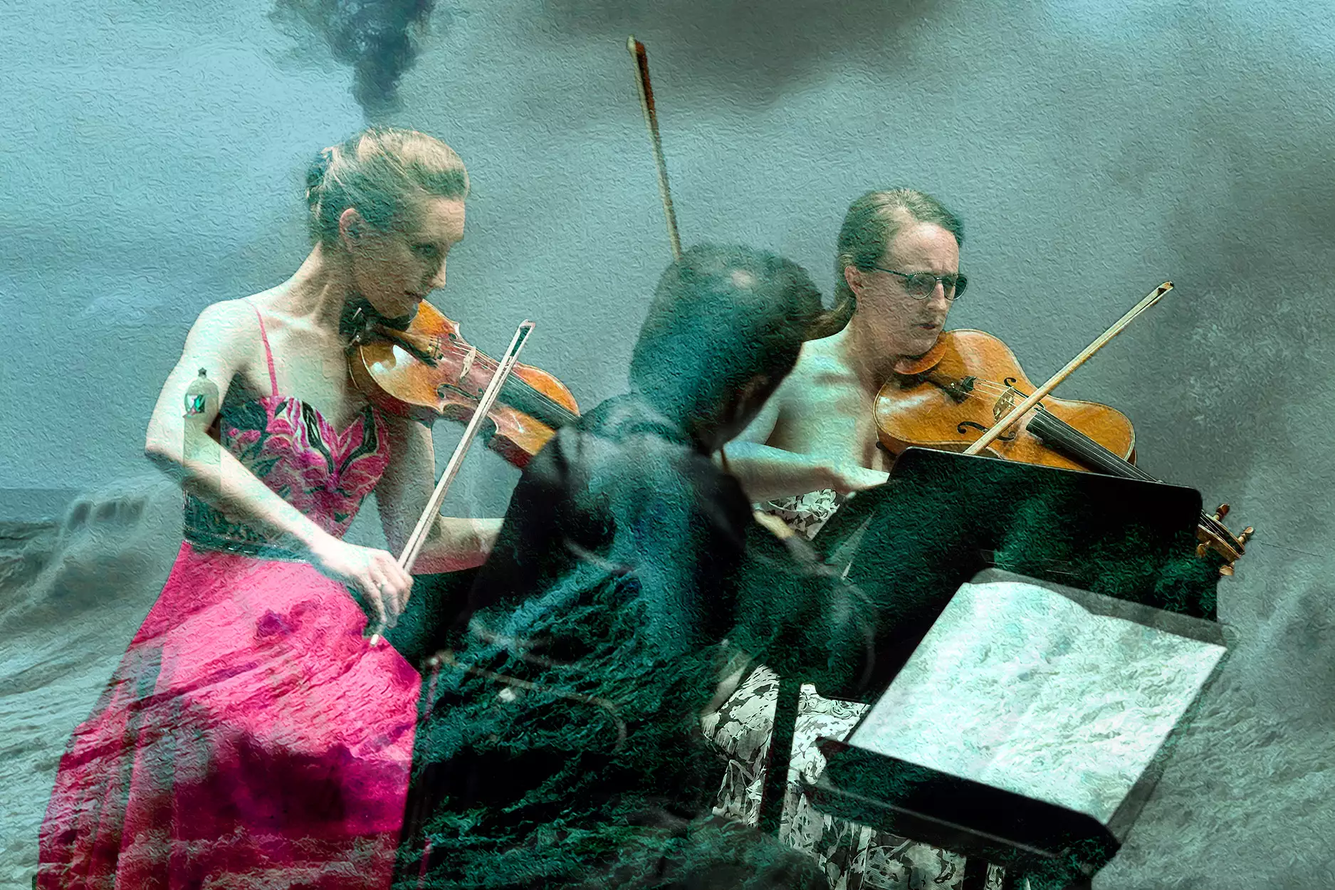
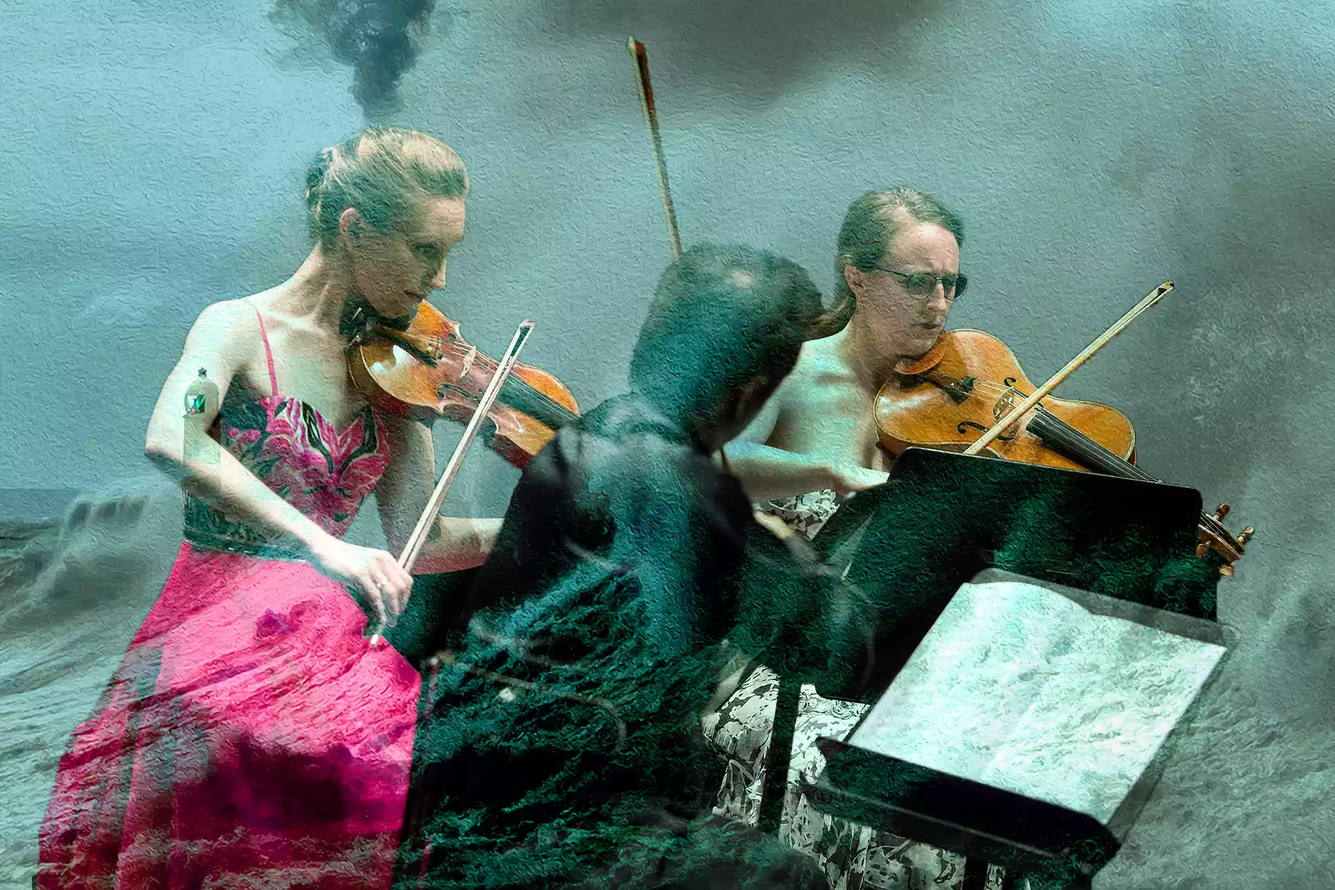
Reduce all image sizes

Changed region(s): [[0.7424, 0.4368, 0.7733, 0.4992]]

diff --git a/pages/info.js b/pages/info.js
@@ -47,6 +47,9 @@ export default function Info() {
               layout="fill"
               objectFit="cover"
               objectPosition="top"
+              priority
+              blurDataURL="/static/data-crescendo.webp"
+              placeholder="blur"
             />
           </div>
           <div
@@ -107,6 +110,8 @@ export default function Info() {
                         layout="responsive"
                         objectFit="cover"
                         objectPosition="bottom"
+                        blurDataURL="/static/data-crescendo.webp"
+                        placeholder="blur"
                       />
                     </div>
                     <div className="absolute inset-0 overflow-hidden rounded-lg bg-blueCrescendo mix-blend-multiply" />

diff --git a/pages/talentos.js b/pages/talentos.js
@@ -50,6 +50,9 @@ const Talentos = () => {
               layout="responsive"
               objectFit="cover"
               objectPosition="center"
+              priority
+              blurDataURL="/static/crescendo-img-18-blur.webp"
+              placeholder="blur"
             />
           </div>
           <div className="absolute flex flex-col items-center justify-start w-40 py-8 mx-4 md:w-48 lg:w-72 md:flex-row sm:py-10 md:py-10 xl:py-20 md:mx-8 lg:mx-20 xl:mx-20">

diff --git a/components/talents/info.js b/components/talents/info.js
@@ -31,7 +31,7 @@ export default function InfoTalentos() {
             <div className="relative pt-64 pb-10 overflow-hidden shadow-none rounded-2xl">
               <div className="absolute inset-0 object-cover w-full h-full">
                 <Image
-                  src="/static/aig.jpg"
+                  src="/static/aig.webp"
                   alt="Teatro Echegaray"
                   layout="fill"
                   objectFit="cover"

diff --git a/pages/artistas/index.js b/pages/artistas/index.js
@@ -25,6 +25,9 @@ export default function Artistas(props) {
               layout="fill"
               objectFit="cover"
               objectPosition="top"
+              priority
+              blurDataURL="/static/data-crescendo.webp"
+              placeholder="blur"
             />
           </div>
           <div

diff --git a/pages/contactar.js b/pages/contactar.js
@@ -20,6 +20,9 @@ export default function Contactar() {
               layout="fill"
               objectFit="cover"
               objectPosition="bottom"
+              priority
+              blurDataURL="/static/data-crescendo.webp"
+              placeholder="blur"
             />
           </div>
         </div>

diff --git a/pages/programa/[slug].js b/pages/programa/[slug].js
@@ -50,6 +50,8 @@ const Concert = ({ event }) => {
               objectFit="cover"
               objectPosition={event.image_position}
               priority
+              blurDataURL="/static/data-crescendo.webp"
+              placeholder="blur"
             />
           </div>
         </div>

diff --git a/assets/events.js b/assets/events.js
@@ -46,7 +46,7 @@ const events = [
         artist_5: `JOSU DE SOLAUN piano`,
       },
     ],
-    image: '/static/crescendo-img-12-waves.jpg',
+    image: '/static/crescendo-img-12-waves.webp',
     image_position: `center`,
   },
 
